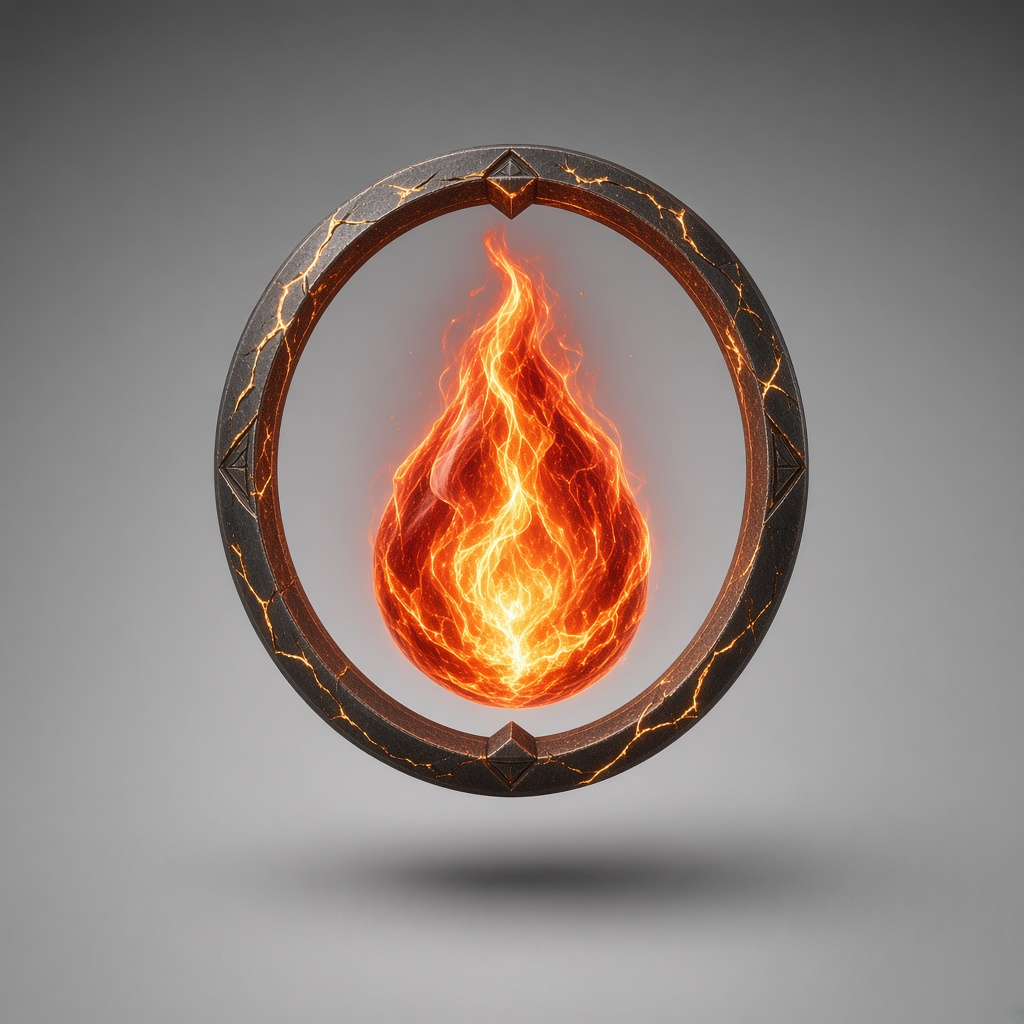
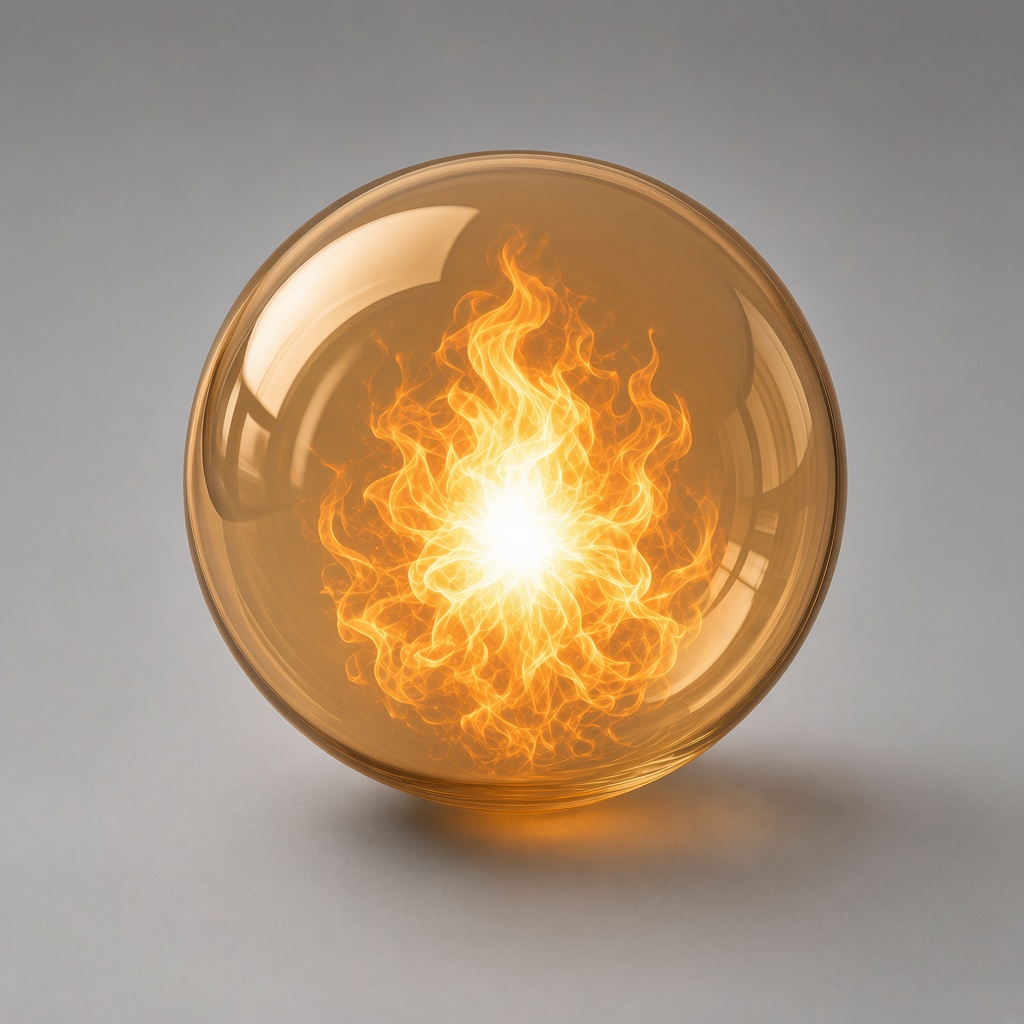
カードリストからアタック熟練見本を削除。試作 index を同期。

diff --git a/index.html b/index.html
@@ -2080,9 +2080,6 @@
     .style-genres figcaption { text-align: center; font-size: 12px; }
     .style-genres img.style-master { width: 100%; height: auto; aspect-ratio: 3 / 4; object-fit: fill; display: block; }
     .album-top { min-width: 0; }
-    .album-top .worn-head { margin: 14px 0 6px; text-align: center; font-size: 14px; letter-spacing: 0.08em; }
-    .style-genres.worn { width: 100%; max-width: 100%; min-width: 0; grid-template-columns: repeat(4, minmax(0, 1fr)); }
-    .style-genres.worn figure { min-width: 0; }
     .album-top .card.preview { width: 100%; }
     .album-screen .panel {
       margin-left: 0;
@@ -5624,6 +5621,24 @@
     }
     .end-floors b { color: #e4b15a; }
     .ending-note { margin: 8px 0 14px; color: #d9c7a4; font-size: 14px; line-height: 1.45; }
+    .records-screen { width: min(760px, calc(100vw - 32px)); text-align: left; }
+    .records-screen h1 { text-align: center; }
+    .records-list { display: flex; flex-direction: column; gap: 8px; margin: 0 0 16px; }
+    .records-item {
+      display: block;
+      width: 100%;
+      padding: 10px 12px;
+      border-radius: 12px;
+      border: 1px solid rgba(228, 177, 90, 0.45);
+      background: rgba(0, 0, 0, 0.28);
+      color: #fff6e4;
+      text-align: left;
+      cursor: pointer;
+    }
+    .records-item .record-name { display: block; font-size: 22px; font-weight: 800; color: #ffe7a8; }
+    .records-item .record-line { display: block; margin-top: 4px; font-size: 15px; }
+    .record-more { margin: 8px 0 0; font-size: 14px; line-height: 1.45; color: #fff6e4; }
+    .records-screen .pass-box { margin: 0 auto 12px; }
     @media (max-width: 800px) {
       .ending { grid-template-columns: 1fr; grid-template-rows: 36vh minmax(0, 1fr); }
       .ending-card { border-left: 0; border-top: 2px solid #e4b15a; }
@@ -10160,6 +10175,10 @@
     let cleared = false;
     let runEnded = null;
     let loginWord = "";
+    let recordRuns = null;
+    let recordNote = "";
+    let recordOpen = -1;
+    let recordBusy = false;
     let passError = "";
     let passFrom = "new";
     let saveNote = "";
@@ -10216,6 +10235,7 @@
     let fxNoMana = false;
     let turnCall = "";
     const SAVE_KEY = "card-battle-save-v1";
+    const CLEAR_INBOX_URL = "";
     const LIVE_KEY = "card-battle-live-v1";
     const SETTINGS_KEY = "card-battle-settings-v1";
     const OPTION_EVENT_KINDS = [
@@ -13937,6 +13957,67 @@
       bankStars();
       persistMeta();
       persistSave(true);
+      sendRunSheet();
+    }
+
+    function runSheetPayload() {
+      const sealed = runSheet && runSheet.sealed;
+      if (!sealed) return null;
+      return {
+        player: sealed.player || "",
+        result: sealed.result === "win" ? "win" : "lose",
+        hero: sealed.hero || "",
+        dungeon: sealed.dungeon || "",
+        floors: Number(sealed.floors) || 0,
+        reached: sealed.reached || "",
+        level: Number(sealed.level) || 0,
+        hp: Number(sealed.hp) || 0,
+        maxHp: Number(sealed.maxHp) || 0,
+        atk: Number(sealed.atk) || 0,
+        def: Number(sealed.def) || 0,
+        spd: Number(sealed.spd) || 0,
+        bless: sealed.bless || "",
+        gear: sealed.gear || {},
+        deck: sealed.deck || [],
+        steps: sealed.steps || [],
+        meets: sealed.meets || {},
+        longest: sealed.longest || "",
+        killer: sealed.killer || "",
+        stars: Number(sealed.stars) || 0,
+        at: new Date().toISOString(),
+      };
+    }
+
+    function sendRunSheet() {
+      const body = runSheetPayload();
+      if (!CLEAR_INBOX_URL || !body) return;
+      fetch(CLEAR_INBOX_URL, {
+        method: "POST",
+        mode: "no-cors",
+        headers: { "Content-Type": "text/plain;charset=utf-8" },
+        body: JSON.stringify(body),
+      }).catch(() => {});
+    }
+
+    function loadRunRecords(word) {
+      return new Promise((resolve) => {
+        if (!CLEAR_INBOX_URL) {
+          resolve({ ok: false, empty: true });
+          return;
+        }
+        const cb = "cardBattleRuns" + Date.now();
+        const script = document.createElement("script");
+        const timer = setTimeout(() => { cleanup(); resolve({ ok: false }); }, 8000);
+        window[cb] = (data) => { cleanup(); resolve(data || { ok: false }); };
+        function cleanup() {
+          clearTimeout(timer);
+          try { delete window[cb]; } catch (error) { window[cb] = undefined; }
+          if (script.parentNode) script.remove();
+        }
+        script.onerror = () => { cleanup(); resolve({ ok: false }); };
+        script.src = `${CLEAR_INBOX_URL}?word=${encodeURIComponent(word)}&callback=${cb}`;
+        document.head.appendChild(script);
+      });
     }
 
     function loadSettings() {
@@ -14380,7 +14461,7 @@
       if (elem === "water") return { name: "水", sub: "DEF+2", image: "enchant-water.svg?v=1" };
       if (elem === "light") return { name: "光", sub: "マナ-1", image: "enchant-light.svg?v=1" };
       if (elem === "dark") return { name: "闇", sub: "キーワード", image: "enchant-dark.svg?v=1" };
-      return { name: "火", sub: "ATK+2", image: "enchant-fire.jpg?v=1" };
+      return { name: "火", sub: "ATK+2", image: "enchant-fire.jpg?v=2" };
     }
 
     function darkWordLabel(id) {
@@ -14958,6 +15039,7 @@
         longest: longest ? `${longest.name} ${longest.turns}ターン` : "なし",
         killer: clearedRun ? "" : (runSheet.killer || ""),
         stars: Math.max(0, Number(meta.stars) || 0),
+        player: loginWord || "",
         victoryArt: heroItem().victory,
         defeatArt: heroItem().defeat,
       };
@@ -15843,6 +15925,7 @@
               ${menuButton("確率", "odds", false, false, "", titleIcon("dice"))}
               ${menuButton("演出", "fx-lab", false, false, "", titleIcon("spark"))}
               ${menuButton("オプション", "settings", false, false, "", titleIcon("sliders"))}
+              ${menuButton("統計", "records", false, false, "", titleIcon("stats"))}
               </div>
             </div>
           </div>
@@ -16964,8 +17047,6 @@
               <section>
                 <h3>カードスタイル</h3>
                 ${cardStyleColumns("album")}
-                <h4 class="worn-head">アタックの熟練</h4>
-                <div class="style-genres worn">${cardStyleSheet(WORN_ATTACK_STYLE)}</div>
               </section>
             </div>`;
       const unadoptedBody = albumTab === "未採用"
@@ -16988,6 +17069,49 @@
     function renderDefeat() {
       if (!defeatSnap) defeatSnap = captureDefeat();
       root.innerHTML = endingFrame(false);
+    }
+
+    function recordDeckLine(deck) {
+      return (deck || []).map((row) => {
+        const bits = [`${row.name}×${row.n}`];
+        if (row.master) bits.push(row.master);
+        if (row.ench) bits.push(row.ench);
+        if (row.dark) bits.push(row.dark);
+        return bits.join(" ");
+      }).join("　") || "なし";
+    }
+
+    function renderRecords() {
+      const ask = !recordRuns;
+      const rows = (recordRuns || []).map((run, index) => {
+        const open = recordOpen === index;
+        const result = run.result === "win" ? "踏破" : "敗北";
+        const name = run.player || "なまえなし";
+        const gear = run.gear || {};
+        const more = open ? `<p class="record-more">祝福 ${esc(run.bless || "なし")}<br>装備 剣 ${esc(gear.sword || "なし")}　盾 ${esc(gear.shield || "なし")}　左 ${esc(gear.braceletL || "なし")}　右 ${esc(gear.braceletR || "なし")}　メダル ${esc(gear.medal || "なし")}<br>ステータス ATK ${Number(run.atk) || 0}　DEF ${Number(run.def) || 0}　SPD ${Number(run.spd) || 0}　残HP ${Number(run.hp) || 0}/${Number(run.maxHp) || 0}<br>デッキ ${esc(recordDeckLine(run.deck))}<br>いちばん長い戦い ${esc(run.longest || "なし")}${run.result === "win" ? "" : `<br>倒された相手 ${esc(run.killer || "なし")}`}</p>` : "";
+        return `<button type="button" class="records-item" data-action="records-open" data-index="${index}"><span class="record-name">${esc(name)}</span><span class="record-line">${esc(result)}　${esc(run.dungeon || "")}　${esc(run.reached || "")} / ${Number(run.floors) || 0}F　レベル${Number(run.level) || 0}　★${Number(run.stars) || 0}</span>${more}</button>`;
+      }).join("");
+      const body = !CLEAR_INBOX_URL
+        ? `<p>記録の受け皿が、まだつながっていません。</p>`
+        : ask
+          ? `<p>管理の言葉を入れてください。</p><div class="pass-box"><input id="record-word" type="text" autocomplete="off" autocapitalize="off" spellcheck="false" enterkeyhint="done">${recordNote ? `<p class="pass-error">${esc(recordNote)}</p>` : ""}${recordBusy ? `<p>開いています。</p>` : menuButton("開く", "records-ok", true)}</div>`
+          : `<div class="records-list">${rows || `<p>まだ記録はありません。</p>`}</div>`;
+      root.innerHTML = `
+        <div class="menu records-screen">
+          <h1>統計</h1>
+          ${body}
+          ${menuButton("もどる", "title")}
+        </div>`;
+      const input = root.querySelector("#record-word");
+      if (input) {
+        input.focus();
+        input.addEventListener("keydown", (event) => {
+          if (event.key !== "Enter") return;
+          event.preventDefault();
+          const button = root.querySelector('[data-action="records-ok"]');
+          if (button) button.click();
+        });
+      }
     }
 
     function renderAccount() {
@@ -17208,6 +17332,7 @@
       else if (screen === "fx") renderFxLab();
       else if (screen === "confirm") renderConfirm();
       else if (screen === "clear") renderClear();
+      else if (screen === "records") renderRecords();
       else if (screen === "floor") {
         renderFloor();
         paintGearOffer();
@@ -17367,16 +17492,6 @@
       ["style-green-over-silver", "アイテム ★★", "frame-green-over-silver.png?v=1"],
       ["style-green-over-gold", "アイテム ★★★", "frame-green-over-gold.png?v=4"],
       ["style-green-over-black", "アイテム ボス", "frame-green-over-black.png?v=1"],
-      ["style-worn-attack-basic", "熟練 基本", "frame-basic-attack-worn.jpg?v=1"],
-      ["style-worn-attack-star1", "熟練 ★", "frame-red-over-copper-worn.jpg?v=1"],
-      ["style-worn-attack-star2", "熟練 ★★", "frame-red-over-silver-worn.jpg?v=1"],
-      ["style-worn-attack-star3", "熟練 ★★★", "frame-red-over-gold-worn.jpg?v=1"],
-    ];
-    const WORN_ATTACK_STYLE = [
-      ["style-worn-attack-basic", "熟練 基本", "frame-basic-attack-worn.jpg?v=1"],
-      ["style-worn-attack-star1", "熟練 ★", "frame-red-over-copper-worn.jpg?v=1"],
-      ["style-worn-attack-star2", "熟練 ★★", "frame-red-over-silver-worn.jpg?v=1"],
-      ["style-worn-attack-star3", "熟練 ★★★", "frame-red-over-gold-worn.jpg?v=1"],
     ];
     function styleLabel(id, name) {
       return name;
@@ -20125,6 +20240,43 @@
           else { castPicked = false; screen = "character"; render(); }
         }
         if (name === "account") { if (!loginWord) return; screen = "account"; render(); }
+        if (name === "records") {
+          recordRuns = null;
+          recordNote = "";
+          recordOpen = -1;
+          recordBusy = false;
+          screen = "records";
+          render();
+          return;
+        }
+        if (name === "records-ok") {
+          const input = root.querySelector("#record-word");
+          const word = input ? input.value : "";
+          if (!word) { recordNote = "入れてください。"; render(); return; }
+          if (!/^[ぁ-んー]+$/.test(word)) { recordNote = "ひらがなだけで、空白は入れない。"; render(); return; }
+          recordBusy = true;
+          recordNote = "";
+          render();
+          loadRunRecords(word).then((data) => {
+            recordBusy = false;
+            if (!data || !data.ok) {
+              recordRuns = null;
+              recordNote = data && data.empty ? "記録の受け皿が、まだつながっていません。" : "開けません。";
+            } else {
+              recordRuns = Array.isArray(data.runs) ? data.runs.slice().reverse() : [];
+              recordNote = "";
+              recordOpen = -1;
+            }
+            render();
+          });
+          return;
+        }
+        if (name === "records-open") {
+          const index = Number(action.dataset.index);
+          recordOpen = recordOpen === index ? -1 : index;
+          render();
+          return;
+        }
         if (name === "logout") logout();
         if (name === "wipe-ask") { screen = "wipe"; render(); }
         if (name === "wipe-again") { screen = "wipe2"; render(); }
